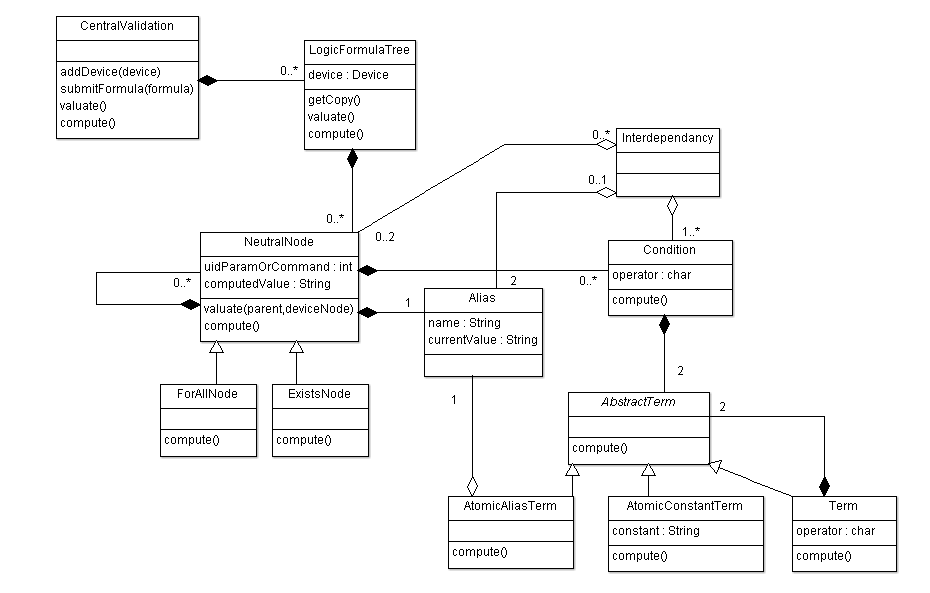
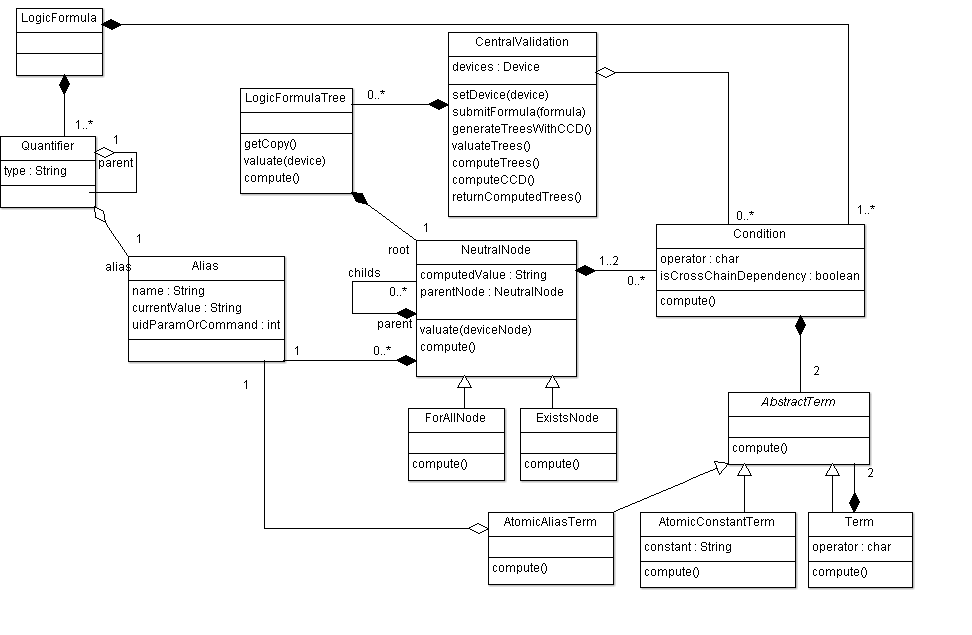
Refactoring + UML mis à jour

Changed region(s): [[0.0, 0.0, 0.9667, 0.9713]]

diff --git a/PYTHON/Validation/CentralValidation.py b/PYTHON/Validation/CentralValidation.py
@@ -3,21 +3,28 @@ import copy
 
 
 class CentralValidation(object):
-    def __init__(self, interdependancies = []):
-        self.devices = []
+    def __init__(self):
+        self.device = None
+        self.logicFormula = None
         self.logicFormulaTrees = []
+        self.CCDconditions = []
 
-        self.interdependancies = []
-        for interdep in interdependancies:
-            self.interdependancies.append(interdep)
 
-    def addDevice(self, device):
-        self.devices.append(device)
+    def setDevice(self, device):
+        self.devices = device
 
-    def submitFormula(self, formulaTree):
-        if (self.devices.__len__()>0):
+    def submitFormula(self, logicFormula):
+        #TODO : classes LogicFormul, Quantifier
+        if self.device!=None:  # and isinstance(logicFormula, LogicFormula):
             self.logicFormulaTrees = []
-            formulaTree.setCentral(self)
+            self.CCDconditions = []
+            self.logicFormula = logicFormula
+            
+    def generateTreesWithCCD(self):
+        if self.device==None or self.logicFormula==None:
+            return
+        #TODO: generate trees from formula + find all cross-chain dependencies (CCD) 
+        '''formulaTree.setCentral(self)
             formulaTree.setDevice(self.devices[0])
             self.logicFormulaTrees.append(formulaTree)
             #copy n times the formula, where n = number of devices - 1
@@ -25,9 +32,18 @@ class CentralValidation(object):
                 formulaTreeCopy = formulaTree.getCopy()
                 formulaTreeCopy.setCentral(self)
                 formulaTreeCopy.setDevice(self.devices[i])
-                self.logicFormulaTrees.append(formulaTreeCopy)
+                self.logicFormulaTrees.append(formulaTreeCopy)'''
 
-    def compute(self):
+    def valuateTrees(self):
+        if self.device==None or self.logicFormula==None:
+            return
+        print "* CENTRAL VALIDATION : beginning valuating formula..."
+        for logicFormulaTree in self.logicFormulaTrees:
+            logicFormulaTree.valuate()
+    
+    def computeTrees(self):
+        if self.device==None or self.logicFormula==None:
+            return
         print "* CENTRAL VALIDATION : beginning computing formula..."
         result = True
         for logicFormulaTree in self.logicFormulaTrees:
@@ -35,22 +51,25 @@ class CentralValidation(object):
             print "* CENTRAL VALIDATION : computing result for device '"+logicFormulaTree.device.name+"' : "+str(tmp)
             result &= tmp
         return result
+    
+    def computeCCD(self):
+        if self.device==None or self.logicFormula==None:
+            return
+        #TODO : compute CCD conditions
+        pass
+    
+    def returnComputedTrees(self):
+        return self.CCDconditions
 
-    def valuate(self):
-        for logicFormulaTree in self.logicFormulaTrees:
-            logicFormulaTree.valuate()
-
-    def addInterdependancy(self, interdependancy):
-        self.interdependancies.append(interdependancy)
 
 
     def __str__(self):
         affichage = "Central:\nFormulaTrees:\n"
         for logicFormulaTree in self.logicFormulaTrees:
             affichage += str(logicFormulaTree) +"\n"
-        affichage +="\nDevices:\n"
-        for device in self.devices:
-            affichage += str(device)+"\n"
+        affichage = "CCD Conditions:\n"
+        for ccdcond in self.CCDconditions:
+            affichage += str(ccdcond) +"\n"
         return affichage
 
 

diff --git a/PYTHON/Validation/Conditions.py b/PYTHON/Validation/Conditions.py
@@ -20,24 +20,6 @@ class Alias(object):
 
 
 
-class Interdependancy(object):
-    def __init__(self, aliasList = [], conditions = []):
-        self.aliasList = []
-        for alias in aliasList:
-            self.aliasList.append(alias)
-        self.conditions = []
-        for condition in conditions:
-            self.conditions.append(condition)
-
-    def __str__(self):
-        aliasNames = ""
-        for alias in self.aliasList:
-            aliasNames += " " + alias.name
-        return "Interdependancy between:" + str(aliasNames)
-
-
-
-
 
 class Condition(object):
     def __init__(self, operator, term1 = None, term2 = None):
